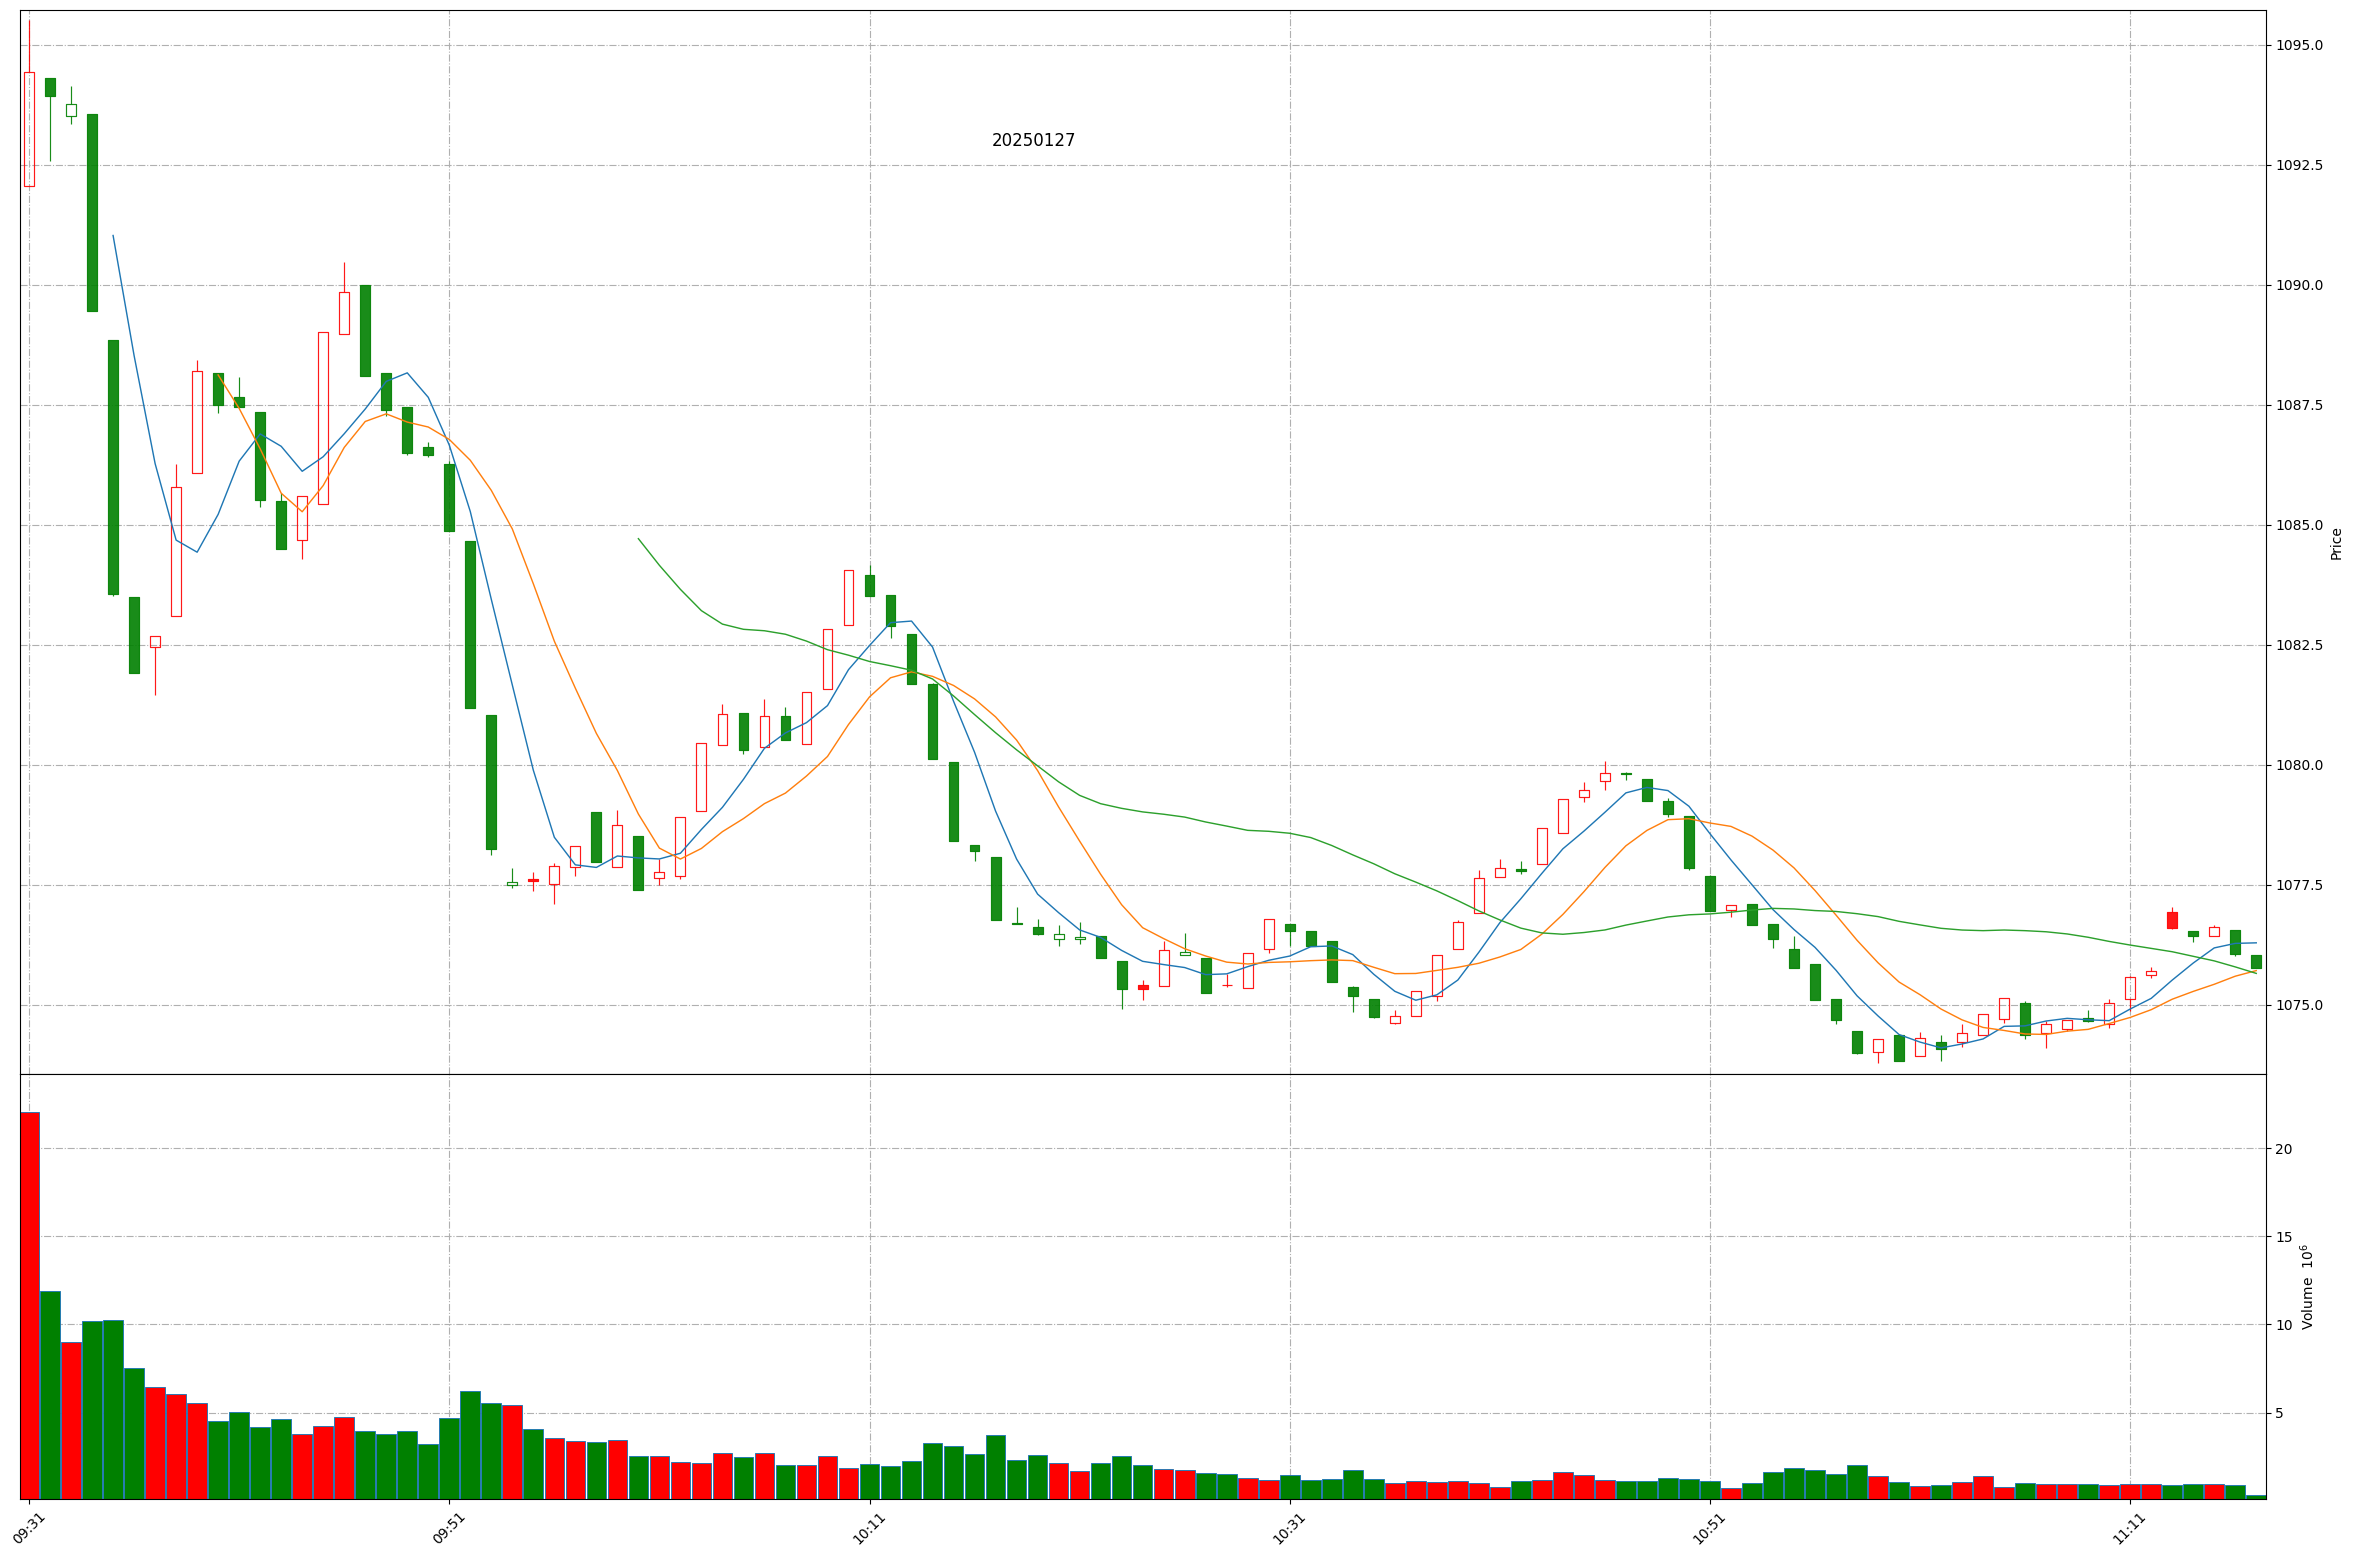
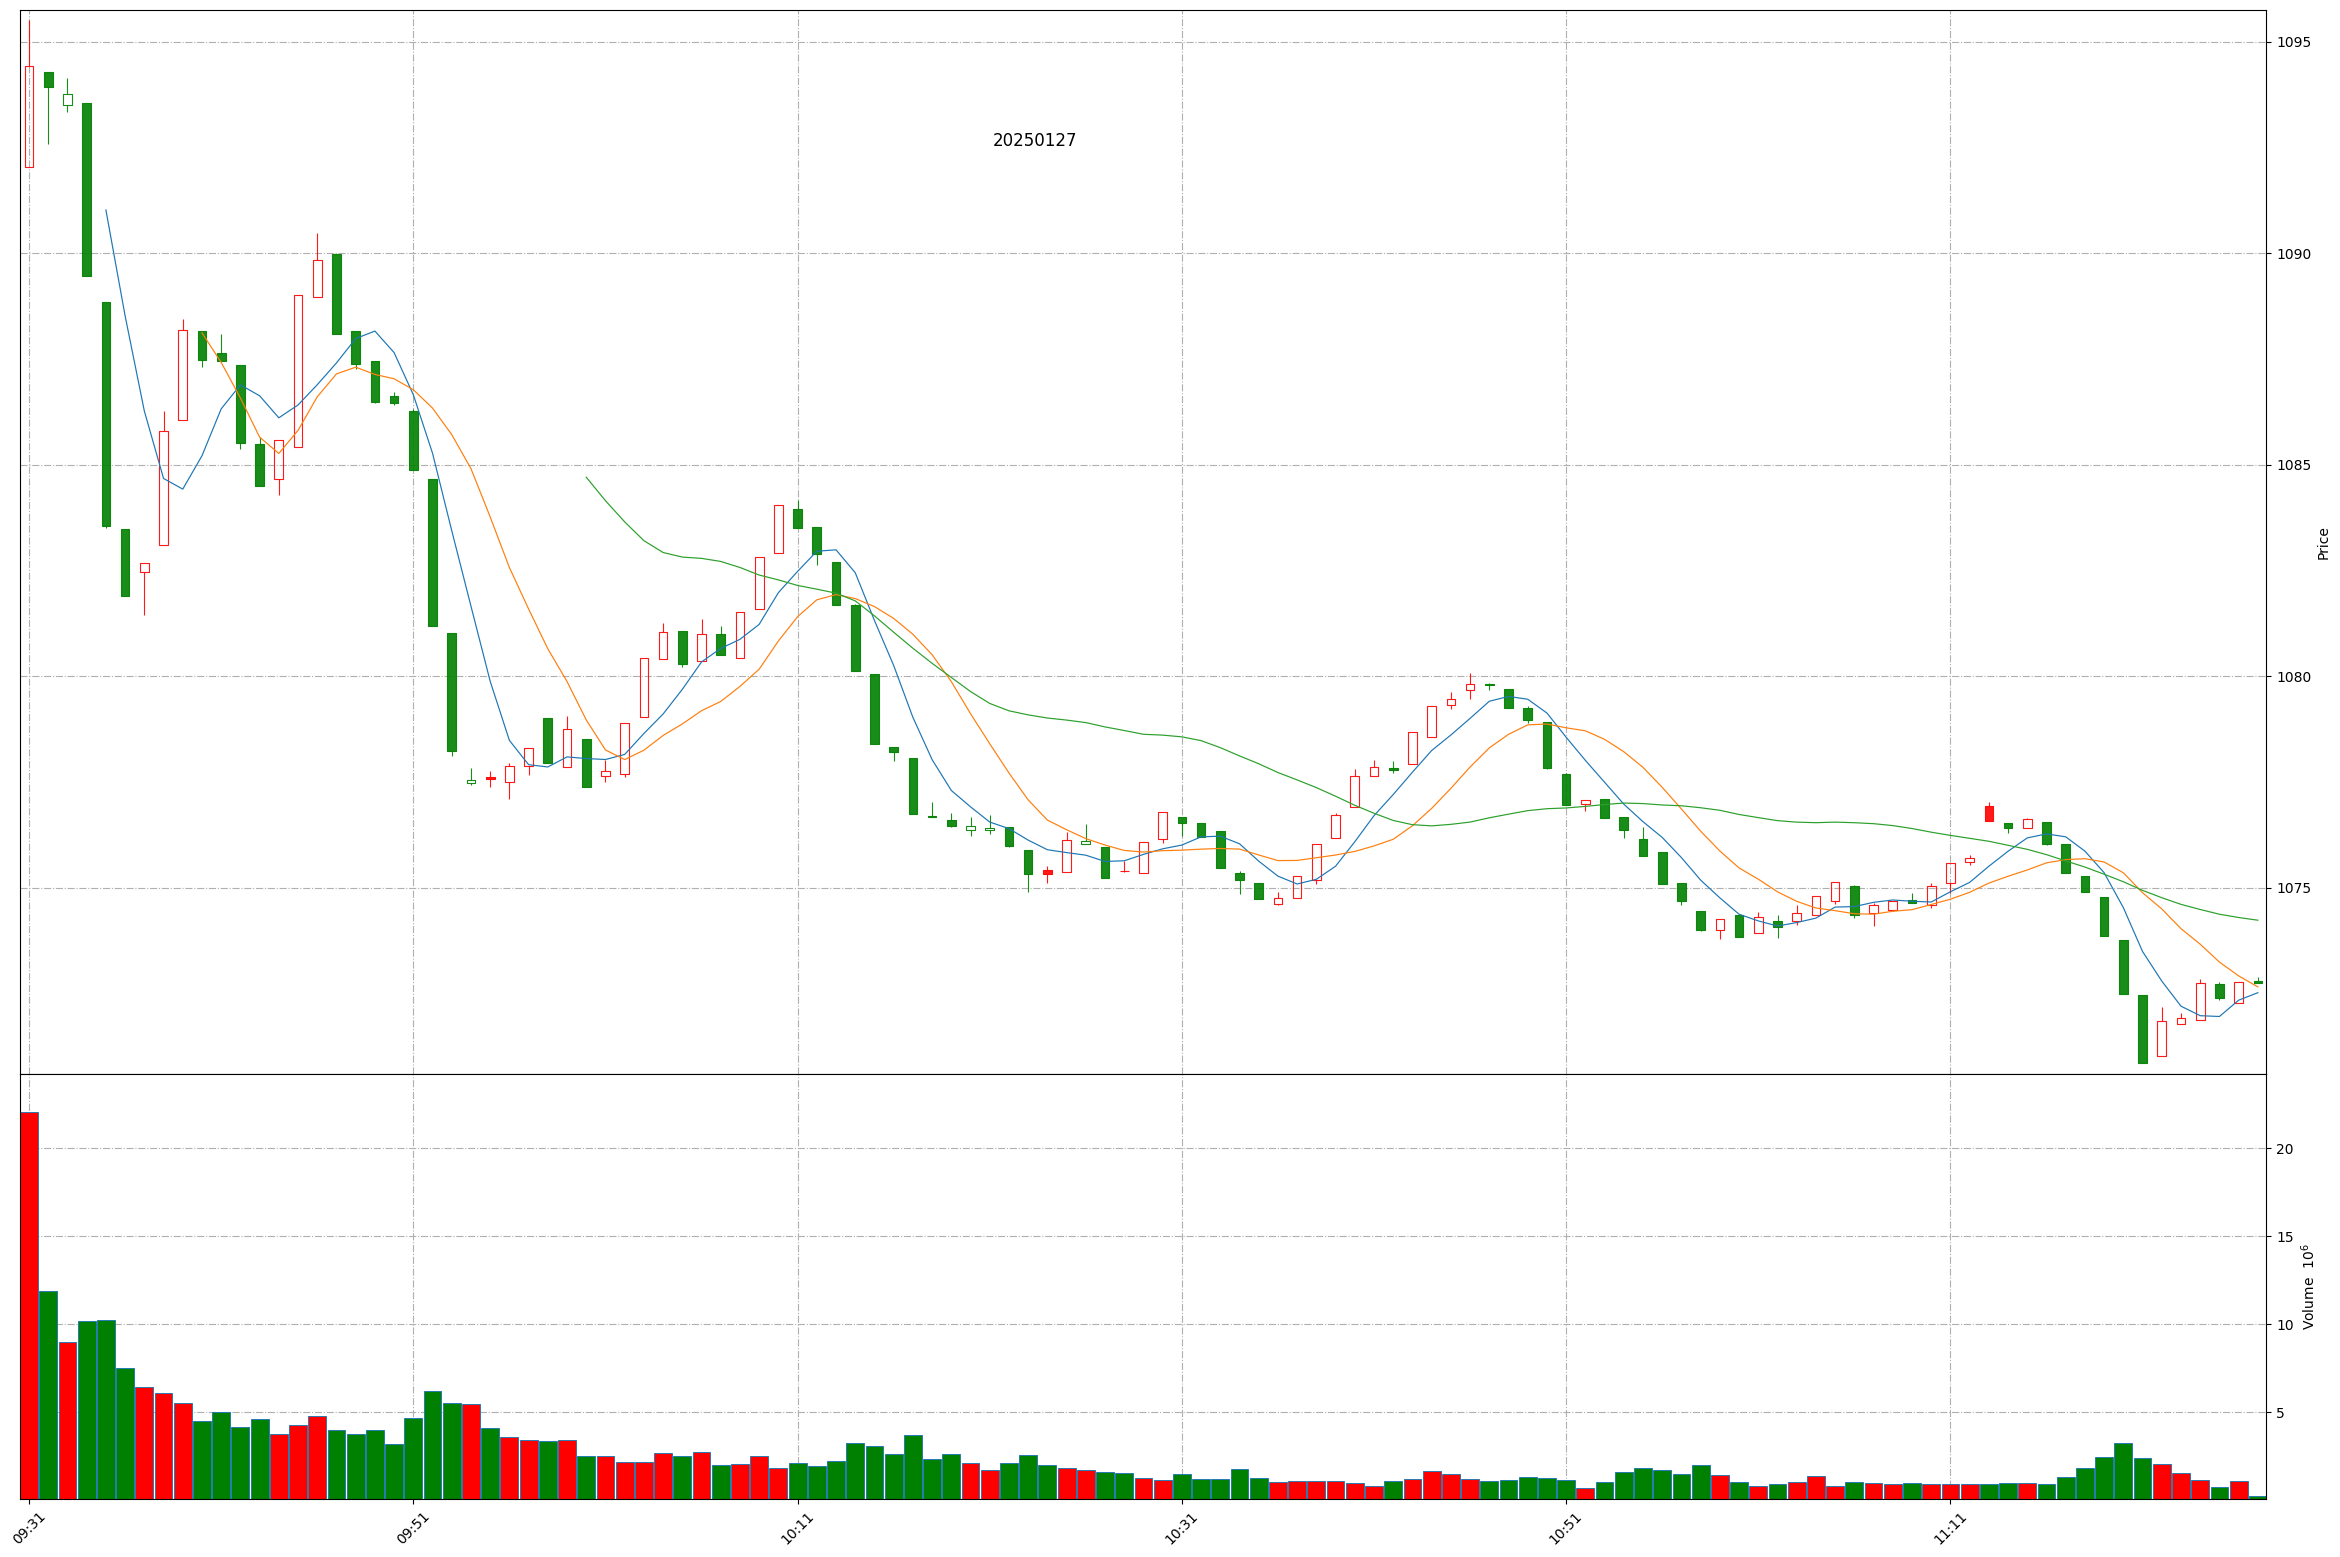
Github action update at 2025-01-27 11:26:24.

diff --git a/README.md b/README.md
@@ -1,11 +1,11 @@
 
 # Daily-A-share-market-quotes 每日 A 股指数（5min 更新）- 20250127
 
-### 上证指数 20250127 11:16
+### 上证指数 20250127 11:26
 ![](./fig/2025/1/20250127-sh000001.png)
 
-### 深证成指 20250127 11:16
+### 深证成指 20250127 11:26
 ![](./fig/2025/1/20250127-sz399001.png)
 
-### 北证50 20250127 11:16
+### 北证50 20250127 11:26
 ![](./fig/2025/1/20250127-bj899050.png)
